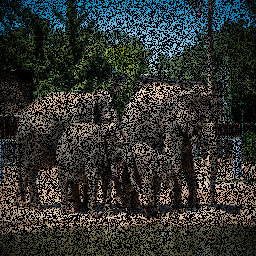
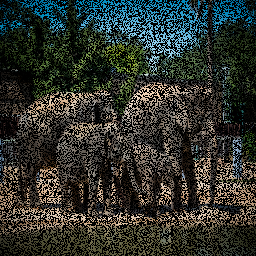
Fixed color map issue.

diff --git a/src/image_sample.py b/src/image_sample.py
@@ -5,9 +5,11 @@ Sample from the diffusion model conditioning on the available image
 import argparse
 import os
 import numpy as np
+from einops import rearrange
 import torch as th
 import torch.distributed as dist
 import random
+from PIL import Image
 
 import sys
 
@@ -22,8 +24,24 @@ from guided_diffusion.script_util import (
     add_dict_to_argparser,
     args_to_dict,
 )
-from mask_generator import generate_random_mask
-from dataloader import load_and_resize_image, save_tensor_as_image
+from mask_generator import generate_random_mask, generate_center_mask
+from dataloader import (
+    load_and_resize_image,
+    save_tensor_as_image,
+    save_tensor_to_gif,
+)
+
+
+def unnormalize_img(t):
+    # Unnormalize the image tensor to the range [0, 1]
+    # Assuming the input tensor is in the range [-1, 1]
+    return (t + 1) * 0.5
+
+
+def normalize_image(t):
+    # Normalize the image tensor to the range [-1. 1]
+    # Assuming the input tensor is in the range [0. 1]
+    return (2 * t) - 1
 
 
 def set_random_seed(seed):
@@ -67,11 +85,18 @@ def main():
     # Load image
     img_path = "data/elephant.jpg"
     img_tensor = load_and_resize_image(img_path, save_resized=True).to(device)
-    print("Loaded image successfully...")
+    img_tensor = normalize_image(img_tensor)
+    print("Loaded image successfully...")  # C, H, W
 
-    # Generate random mask
-    mask = generate_random_mask(img_tensor.shape, pixel_ratio=0.5).to(device)
-    save_tensor_as_image(mask * img_tensor, "data/masked_sample.png")
+    # # Generate random mask
+    # mask = generate_random_mask(img_tensor.shape, pixel_ratio=0.5).to(device)
+    # maskedInput = mask * img_tensor
+    # save_tensor_as_image(maskedInput, "data/masked_sample.png")
+
+    # Generate square mask
+    mask = generate_center_mask(img_tensor.shape).to(device)
+    maskedInput = mask * img_tensor
+    save_tensor_as_image(maskedInput, "data/masked_center_sample.png")
 
     model_kwargs = {}
     if args.class_cond:
@@ -79,47 +104,33 @@ def main():
             low=0, high=NUM_CLASSES, size=(args.batch_size,), device=dist_util.dev()
         )
         model_kwargs["y"] = classes
-    # sample_fn = (
-    #     diffusion.p_sample_loop if not args.use_ddim else diffusion.ddim_sample_loop
-    # )
 
-    sample = sample_fn(
+    sample, x_evol = diffusion.custom_sample_loop(
         model,
         (args.batch_size, 3, args.image_size, args.image_size),
+        measurement=maskedInput,
+        mask=mask,
         clip_denoised=args.clip_denoised,
         model_kwargs=model_kwargs,
     )
-    sample = ((sample + 1) * 127.5).clamp(0, 255).to(th.uint8)
-    sample = sample.permute(0, 2, 3, 1)
-    sample = sample.contiguous()
 
-    gathered_samples = [th.zeros_like(sample) for _ in range(dist.get_world_size())]
-    dist.all_gather(gathered_samples, sample)  # gather not supported with NCCL
-    all_images.extend([sample.cpu().numpy() for sample in gathered_samples])
-    if args.class_cond:
-        gathered_labels = [
-            th.zeros_like(classes) for _ in range(dist.get_world_size())
-        ]
-        dist.all_gather(gathered_labels, classes)
-        all_labels.extend([labels.cpu().numpy() for labels in gathered_labels])
-    logger.log(f"created {len(all_images) * args.batch_size} samples")
+    # === Save Final Sample Image ===
+    save_dir = os.path.abspath(os.path.join(os.path.dirname(__file__), "..", "results"))
+    sample = unnormalize_img(th.clamp(sample[0], -1, 1))  # sample was B, T, H, W
+    save_tensor_as_image(sample, os.path.join(save_dir, "sample.png"))
+    
+    # === Save Evolution GIF ===
+    x_evol = [x_tensor.cpu() for x_tensor in x_evol]
+    preds_tensor = th.cat(x_evol, dim=0)  # shape: (T, 3, H, W)
+    preds_tensor = rearrange(preds_tensor, "t c h w -> c t h w")
+    preds_tensor = th.clamp(preds_tensor, -1, 1)
+    save_tensor_to_gif(
+        unnormalize_img(preds_tensor), os.path.join(save_dir, "evolution.gif")
+    )
 
-    arr = np.concatenate(all_images, axis=0)
-    arr = arr[: args.num_samples]
-    if args.class_cond:
-        label_arr = np.concatenate(all_labels, axis=0)
-        label_arr = label_arr[: args.num_samples]
-    if dist.get_rank() == 0:
-        shape_str = "x".join([str(x) for x in arr.shape])
-        out_path = os.path.join(logger.get_dir(), f"samples_{shape_str}.npz")
-        logger.log(f"saving to {out_path}")
-        if args.class_cond:
-            np.savez(out_path, arr, label_arr)
-        else:
-            np.savez(out_path, arr)
-
+    # No need to gather full array or save .npz unless required
     dist.barrier()
-    logger.log("sampling complete")
+    print("Sampling and saving complete.")
 
 
 def create_argparser():

diff --git a/guided-diffusion/guided_diffusion/gaussian_diffusion.py b/guided-diffusion/guided_diffusion/gaussian_diffusion.py
@@ -136,7 +136,7 @@ class GaussianDiffusion:
         assert len(betas.shape) == 1, "betas must be 1-D"
         assert (betas > 0).all() and (betas <= 1).all()
 
-        _timesteps = int(betas.shape[0])
+        self.num_timesteps = int(betas.shape[0])
 
         alphas = 1.0 - betas
         self.alphas_cumprod = np.cumprod(alphas, axis=0)
@@ -566,8 +566,9 @@ class GaussianDiffusion:
         else:
             x = th.randn(*shape, device=device)
 
-        xs = [x]  # list of all intermediate steps
-
+        # xs = [x.to("cpu")]  # list of all intermediate steps
+        xs = [x]
+        
         masked_input = measurement.detach()
 
         T_sampling = 20
@@ -579,45 +580,50 @@ class GaussianDiffusion:
         times_pair = zip(reversed(times), reversed(times_next))
 
         betas = th.from_numpy(self.betas).float().to(x.device)
+        alphas_cumprod = th.from_numpy(self.alphas_cumprod).float().to(device)
 
         # reverse diffusion sampling
         for i, j in tqdm.tqdm(times_pair, total=len(times)):
-            t = (i).to(x.device)
-            next_t = (j).to(x.device)
+            t = th.full(
+                (shape[0],), i, device=device, dtype=th.long
+            )  # batch-wise timestep
 
-            abar_t = th.from_numpy(self.alphas_cumprod[i]).float().to(x.device)
+            abar_t = alphas_cumprod[i]
             bt = betas[i]
-            bt_prev = betas[j]
-            at = 1 - bt
+            bt_prev = betas[j] if j >= 0 else th.tensor(0.0, device=device)
+            at = 1.0 - bt
+
+            xt = xs[-1].to(device)
+
+            U = 10
             eta = 0.15
 
-            xt = xs[-1].to(x.device)
-            
-            U = 10
             for u in range(U):
-                # 0. NFE
                 with th.no_grad():
                     et = model(xt, t)
-                # et = et[:, :et.size(1)//2]
+                et = et[:, : et.size(1) // 2]
 
-                # 1. Renoise
+                # Step 1: Renoise known image
                 eps = th.randn_like(xt)
-                xt_prev_known = abar_t.sqrt() * masked_input + (1 - abar_t).sqrt() * eps
+                xt_prev_known = (
+                    th.sqrt(abar_t) * masked_input + th.sqrt(1.0 - abar_t) * eps
+                )  # added square root: not in paper
 
-                # 2. Denoising
+                # Step 2: Denoise
                 z = th.randn_like(xt)
-                xt_prev_unknown = (xt - (bt * et / (1 - abar_t).sqrt())) / at.sqrt() + (eta * bt * z)
+                xt_prev_unknown = (xt - (bt * et / th.sqrt(1.0 - abar_t))) / th.sqrt(
+                    at
+                ) + eta * bt * z
 
-                # 3. Mask
-                xt_prev = mask * xt_prev_known + (1 - mask) * xt_prev_unknown
+                xt_prev = mask * xt_prev_known + (1.0 - mask) * xt_prev_unknown
 
-                if u < U and t > 1:
-                    xt = th.randn_like(xt) * bt_prev + np.sqrt(1 - bt_prev) * xt_prev
+                if u < U and i > 1:
+                    xt = th.sqrt(1.0 - bt_prev) * xt_prev + bt_prev * th.randn_like(xt)
 
-            xs.append(xt_prev.to('cpu'))
+            # xs.append(xt_prev.cpu())
+            xs.append(xt_prev)
 
         return xs[-1], xs
-            
 
     def ddim_sample(
         self,

diff --git a/src/dataloader.py b/src/dataloader.py
@@ -1,7 +1,9 @@
-import cv2
 import numpy as np
+from PIL import Image
+import cv2
 import torch
 import os
+from torchvision import transforms as T
 
 
 def load_and_resize_image(img_path, save_resized=False, save_path=None):
@@ -58,3 +60,27 @@ def save_tensor_as_image(tensor, save_path):
     # Convert RGB to BGR for OpenCV
     img_bgr = cv2.cvtColor(img_np, cv2.COLOR_RGB2BGR)
     cv2.imwrite(save_path, img_bgr)
+
+
+def tensor_to_numpy_image(tensor):
+    """Convert a torch tensor (B, C, H, W) in [-1, 1] or [0, 255] to uint8 RGB HWC."""
+    tensor = tensor.detach().cpu()
+    if tensor.max() <= 1.0:
+        tensor = ((tensor + 1) * 127.5).clamp(0, 255)
+    array = tensor.to(torch.uint8).permute(0, 2, 3, 1).numpy()  # BHWC
+    return array[0]
+
+
+# tensor of shape (channels, frames, height, width) -> gif
+def save_tensor_to_gif(tensor, path, duration=250, loop=0, optimize=True):
+    images = map(T.ToPILImage(), tensor.unbind(dim=1))
+    first_img, *rest_imgs = images
+    first_img.save(
+        path,
+        save_all=True,
+        append_images=rest_imgs,
+        duration=duration,
+        loop=loop,
+        optimize=optimize,
+    )
+    return images

diff --git a/src/mask_generator.py b/src/mask_generator.py
@@ -28,3 +28,32 @@ def generate_random_mask(shape, pixel_ratio):
     mask = mask.expand(C, H, W)
     
     return mask
+
+
+def generate_center_mask(shape, box_size=100):
+    """
+    Generates a binary mask with a centered square of ones.
+
+    Args:
+        shape (tuple): Shape of the mask (C, H, W) or (1, C, H, W).
+        box_size (int): Size of the central square to unmask (1s). Default: 100
+
+    Returns:
+        torch.Tensor: Binary mask of shape (C, H, W)
+    """
+    if len(shape) == 4:
+        _, C, H, W = shape
+    elif len(shape) == 3:
+        C, H, W = shape
+    else:
+        raise ValueError("Unsupported shape: expected (C, H, W) or (1, C, H, W)")
+
+    mask = torch.ones((C, H, W), dtype=torch.float32)
+
+    y0 = (H - box_size) // 2
+    x0 = (W - box_size) // 2
+    y1 = y0 + box_size
+    x1 = x0 + box_size
+
+    mask[:, y0:y1, x0:x1] = 0.0
+    return mask
